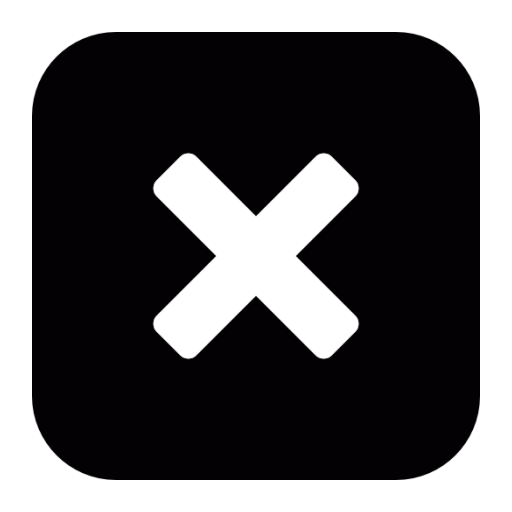
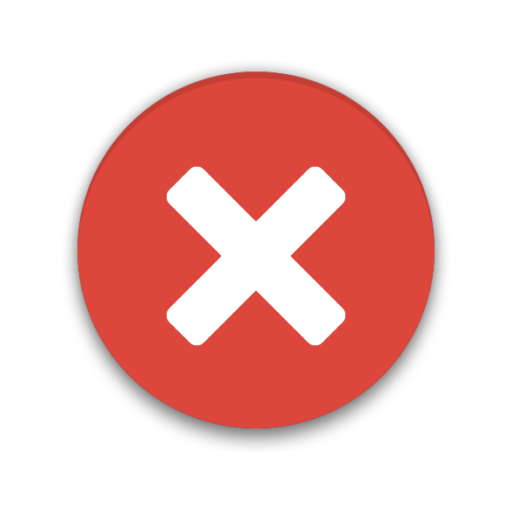
Visual overhaul of word action menu

diff --git a/app/src/main/java/edu/spu/teamroot/voicecloud/Word.java b/app/src/main/java/edu/spu/teamroot/voicecloud/Word.java
@@ -332,7 +332,7 @@ public class Word extends WordGroup {
 
         curItemMap = new HashMap<>();
         curItemMap.put("id", "count");
-        curItemMap.put("icon", String.valueOf(R.mipmap.count_icon));
+        curItemMap.put("icon", String.valueOf(R.mipmap.green_icon));
         curItemMap.put("iconText", Integer.toString(word.getCount()));
         curItemMap.put("label", word.getCount() == 1 ? "Occurrence" : "Occurrences");
         dataList.add(curItemMap);
@@ -342,7 +342,7 @@ public class Word extends WordGroup {
         // Find count per minute
         double countPerMinute = word.getCount() / ((System.currentTimeMillis() - WordCloud.getInstance().getTimestamp()) / 60000.0);
 
-        curItemMap.put("icon", String.valueOf(R.mipmap.count_icon));
+        curItemMap.put("icon", String.valueOf(R.mipmap.green_icon));
         curItemMap.put("iconText", countPerMinute>=10?String.format("%d", (int)countPerMinute):String.format("%.1f", countPerMinute));
         curItemMap.put("label", countPerMinute==1?"Occurrence Per Minute":"Occurrences Per Minute");
         dataList.add(curItemMap);
@@ -360,15 +360,9 @@ public class Word extends WordGroup {
         dataList.add(curItemMap);
 
         curItemMap = new HashMap<>();
-        curItemMap.put("icon", String.valueOf(R.mipmap.count_icon));
+        curItemMap.put("icon", String.valueOf(R.mipmap.dictionary_icon));
         curItemMap.put("iconText", "");
         curItemMap.put("label", "Define in Dictionary");
-        dataList.add(curItemMap);
-
-        curItemMap = new HashMap<>();
-        curItemMap.put("icon", String.valueOf(R.mipmap.quizlet_icon));
-        curItemMap.put("iconText", "");
-        curItemMap.put("label", "Create Flash Card");
         dataList.add(curItemMap);
 
         curItemMap = new HashMap<>();
@@ -381,8 +375,6 @@ public class Word extends WordGroup {
 
         AdapterView.OnItemClickListener listener = new AdapterView.OnItemClickListener() {
             public void onItemClick(AdapterView<?> parent, View view, int position, long id) {
-
-                Toast.makeText(WordCloud.context, Integer.toString(position), Toast.LENGTH_SHORT);
 
                 // Count
                 if (position == 0) { }
@@ -413,13 +405,8 @@ public class Word extends WordGroup {
                     WordCloud.context.startActivity(i);
                 }
 
-                // Create Flash Card
-                if (position == 5) {
-                    dialog.dismiss();
-                }
-
                 // Remove from Word Cloud
-                if (position == 6) {
+                if (position == 5) {
 
                     // Add word to exclusion list
 

diff --git a/app/src/main/java/edu/spu/teamroot/voicecloud/MainActivity.java b/app/src/main/java/edu/spu/teamroot/voicecloud/MainActivity.java
@@ -22,6 +22,7 @@ import android.support.v7.app.ActionBarActivity;
 import android.os.Bundle;
 import android.text.InputType;
 import android.util.Log;
+import android.util.TypedValue;
 import android.view.Display;
 import android.view.Menu;
 import android.view.MenuItem;
@@ -327,6 +328,9 @@ public class MainActivity extends ActionBarActivity implements PopupMenu.OnMenuI
             final EditText input = new EditText(this);
             // Specify the type of input expected; this, for example, sets the input as a password, and will mask the text
             input.setInputType(InputType.TYPE_CLASS_TEXT | InputType.TYPE_CLASS_NUMBER);
+            input.setHint("CloudID");
+            input.setTextSize(TypedValue.COMPLEX_UNIT_DIP, 40);
+            input.setPadding(50, 50, 50, 50);
             builder.setView(input);
 
             // Set up the buttons

diff --git a/app/src/main/java/edu/spu/teamroot/voicecloud/SpeechRecognitionService.java b/app/src/main/java/edu/spu/teamroot/voicecloud/SpeechRecognitionService.java
@@ -105,6 +105,7 @@ public class SpeechRecognitionService extends Service {
 
         Log.d(TAG, "SRS destroy");
 
+        // Turn sounds back on
         if (Build.VERSION.SDK_INT >= Build.VERSION_CODES.JELLY_BEAN) {
             mAudioManager.setStreamMute(AudioManager.STREAM_SYSTEM, false);
             mAudioManager.setStreamMute(AudioManager.STREAM_MUSIC, false);
